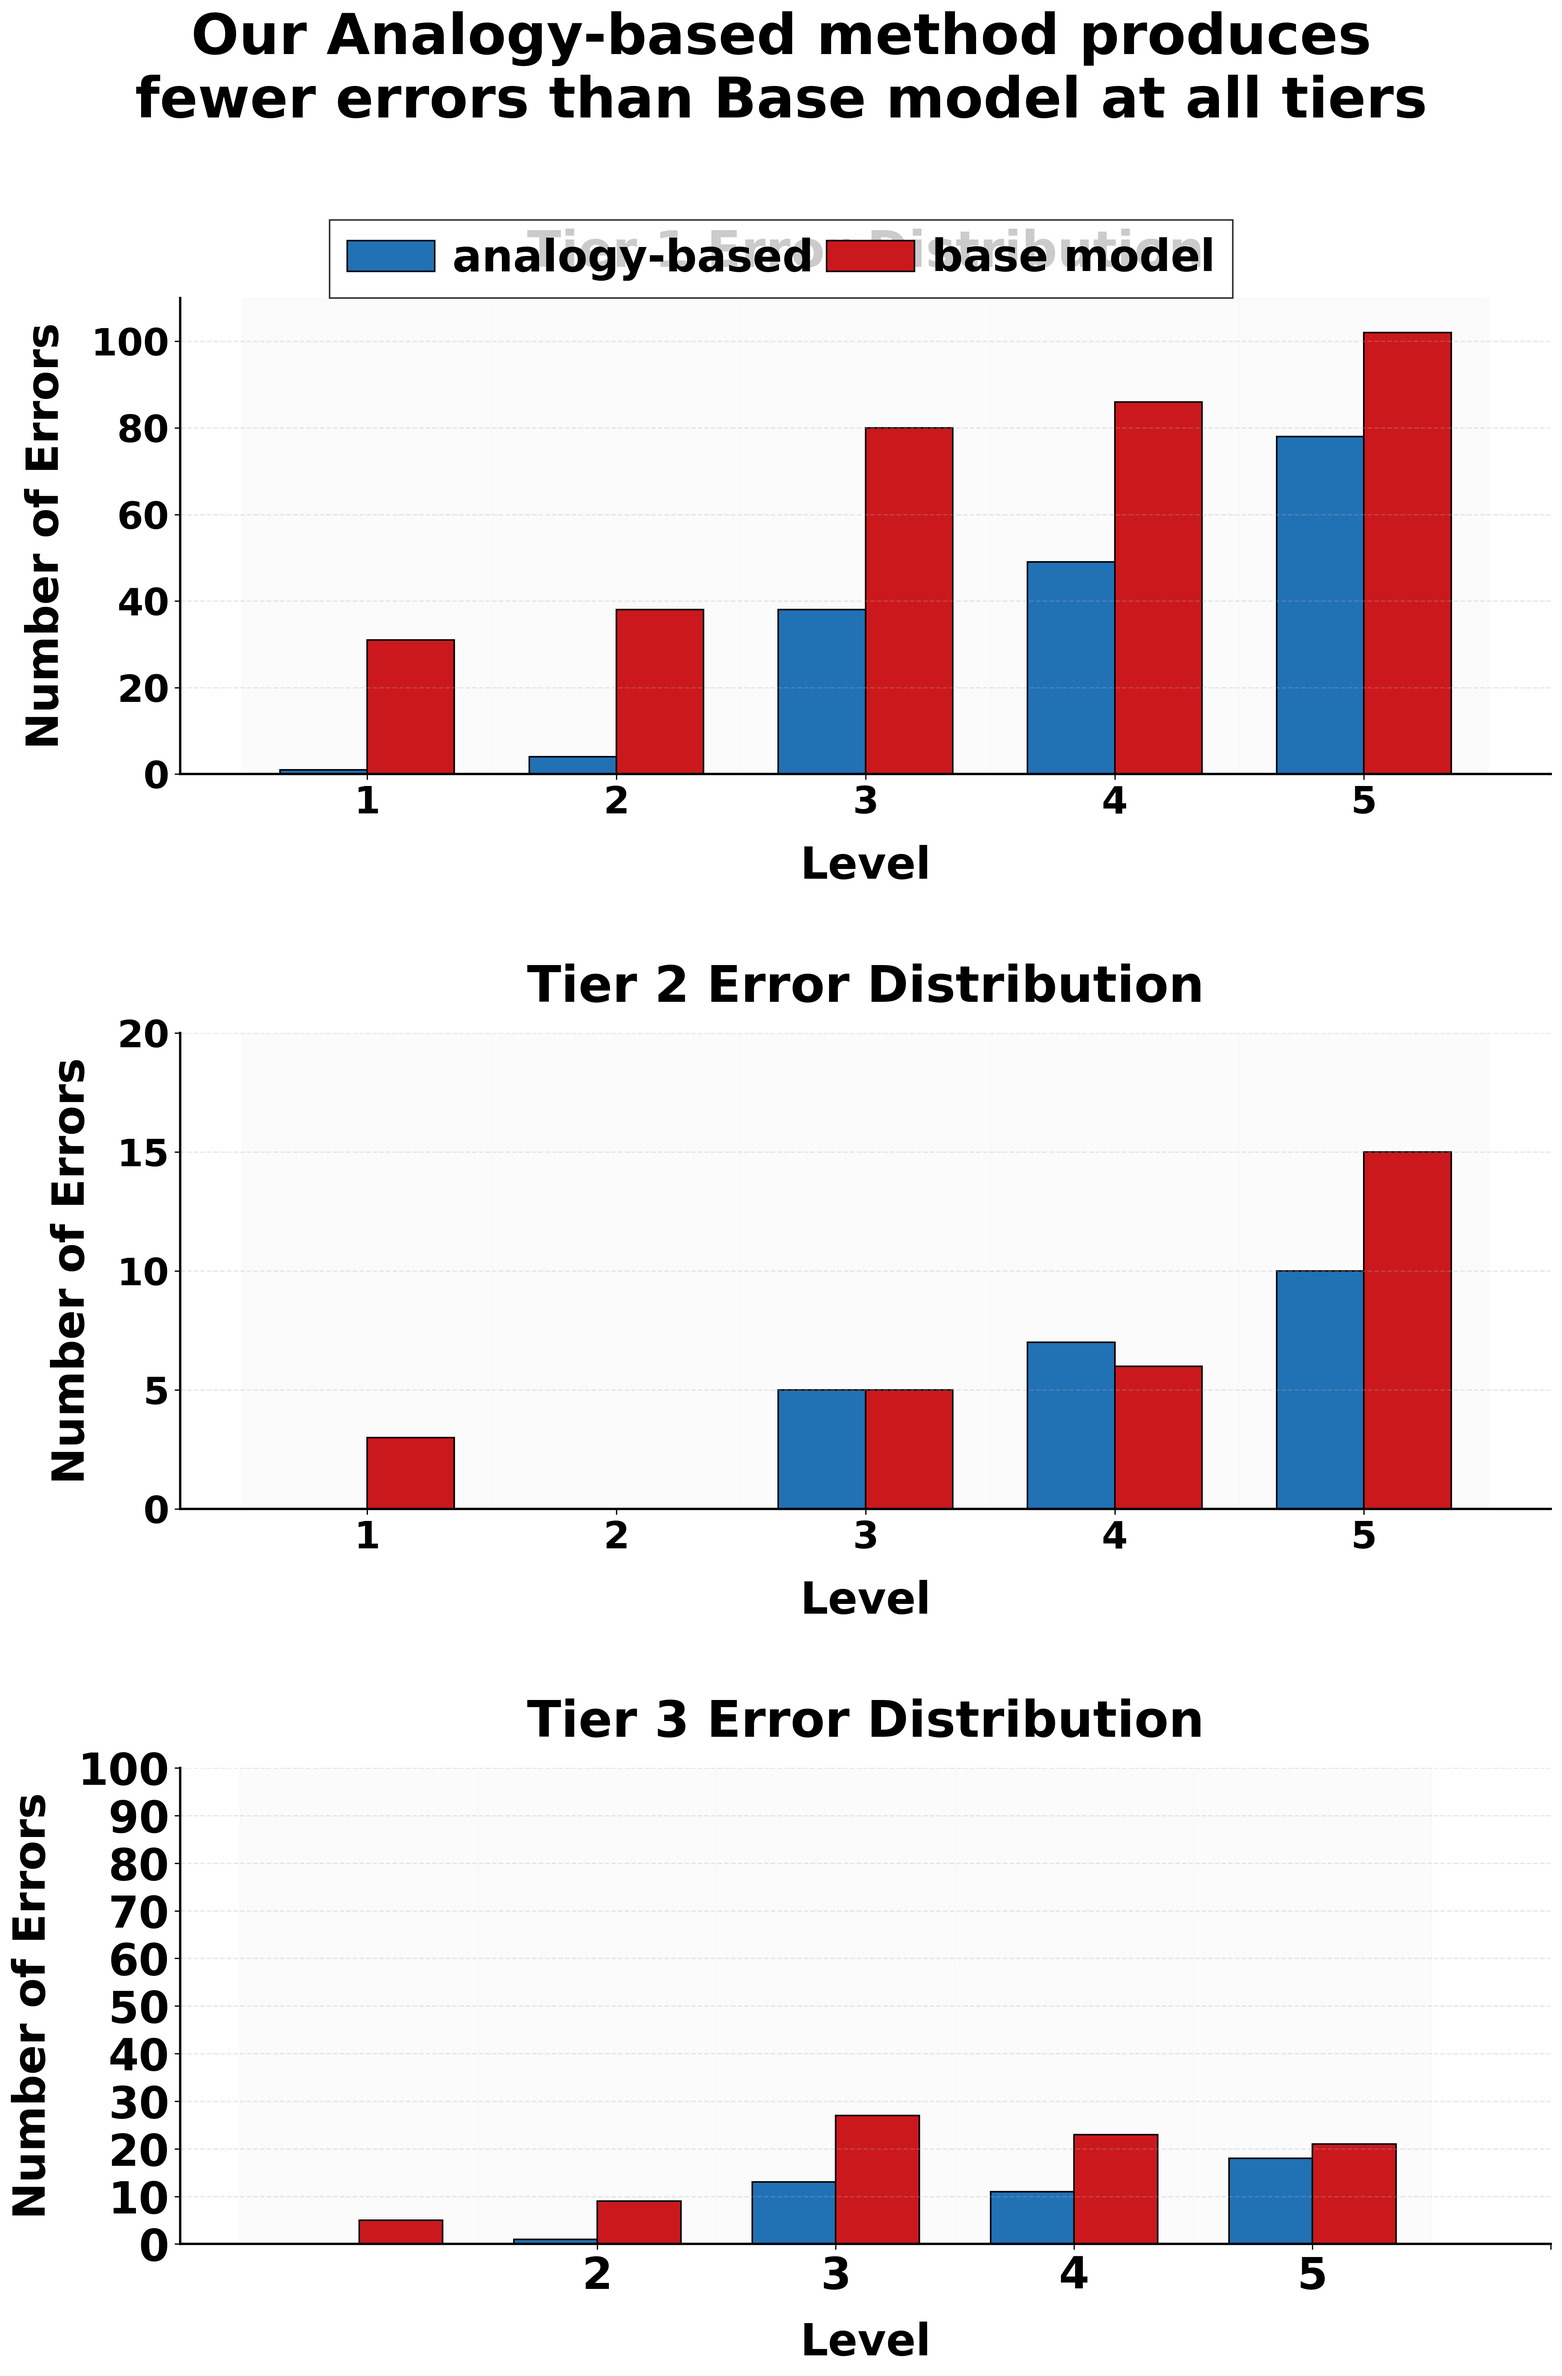
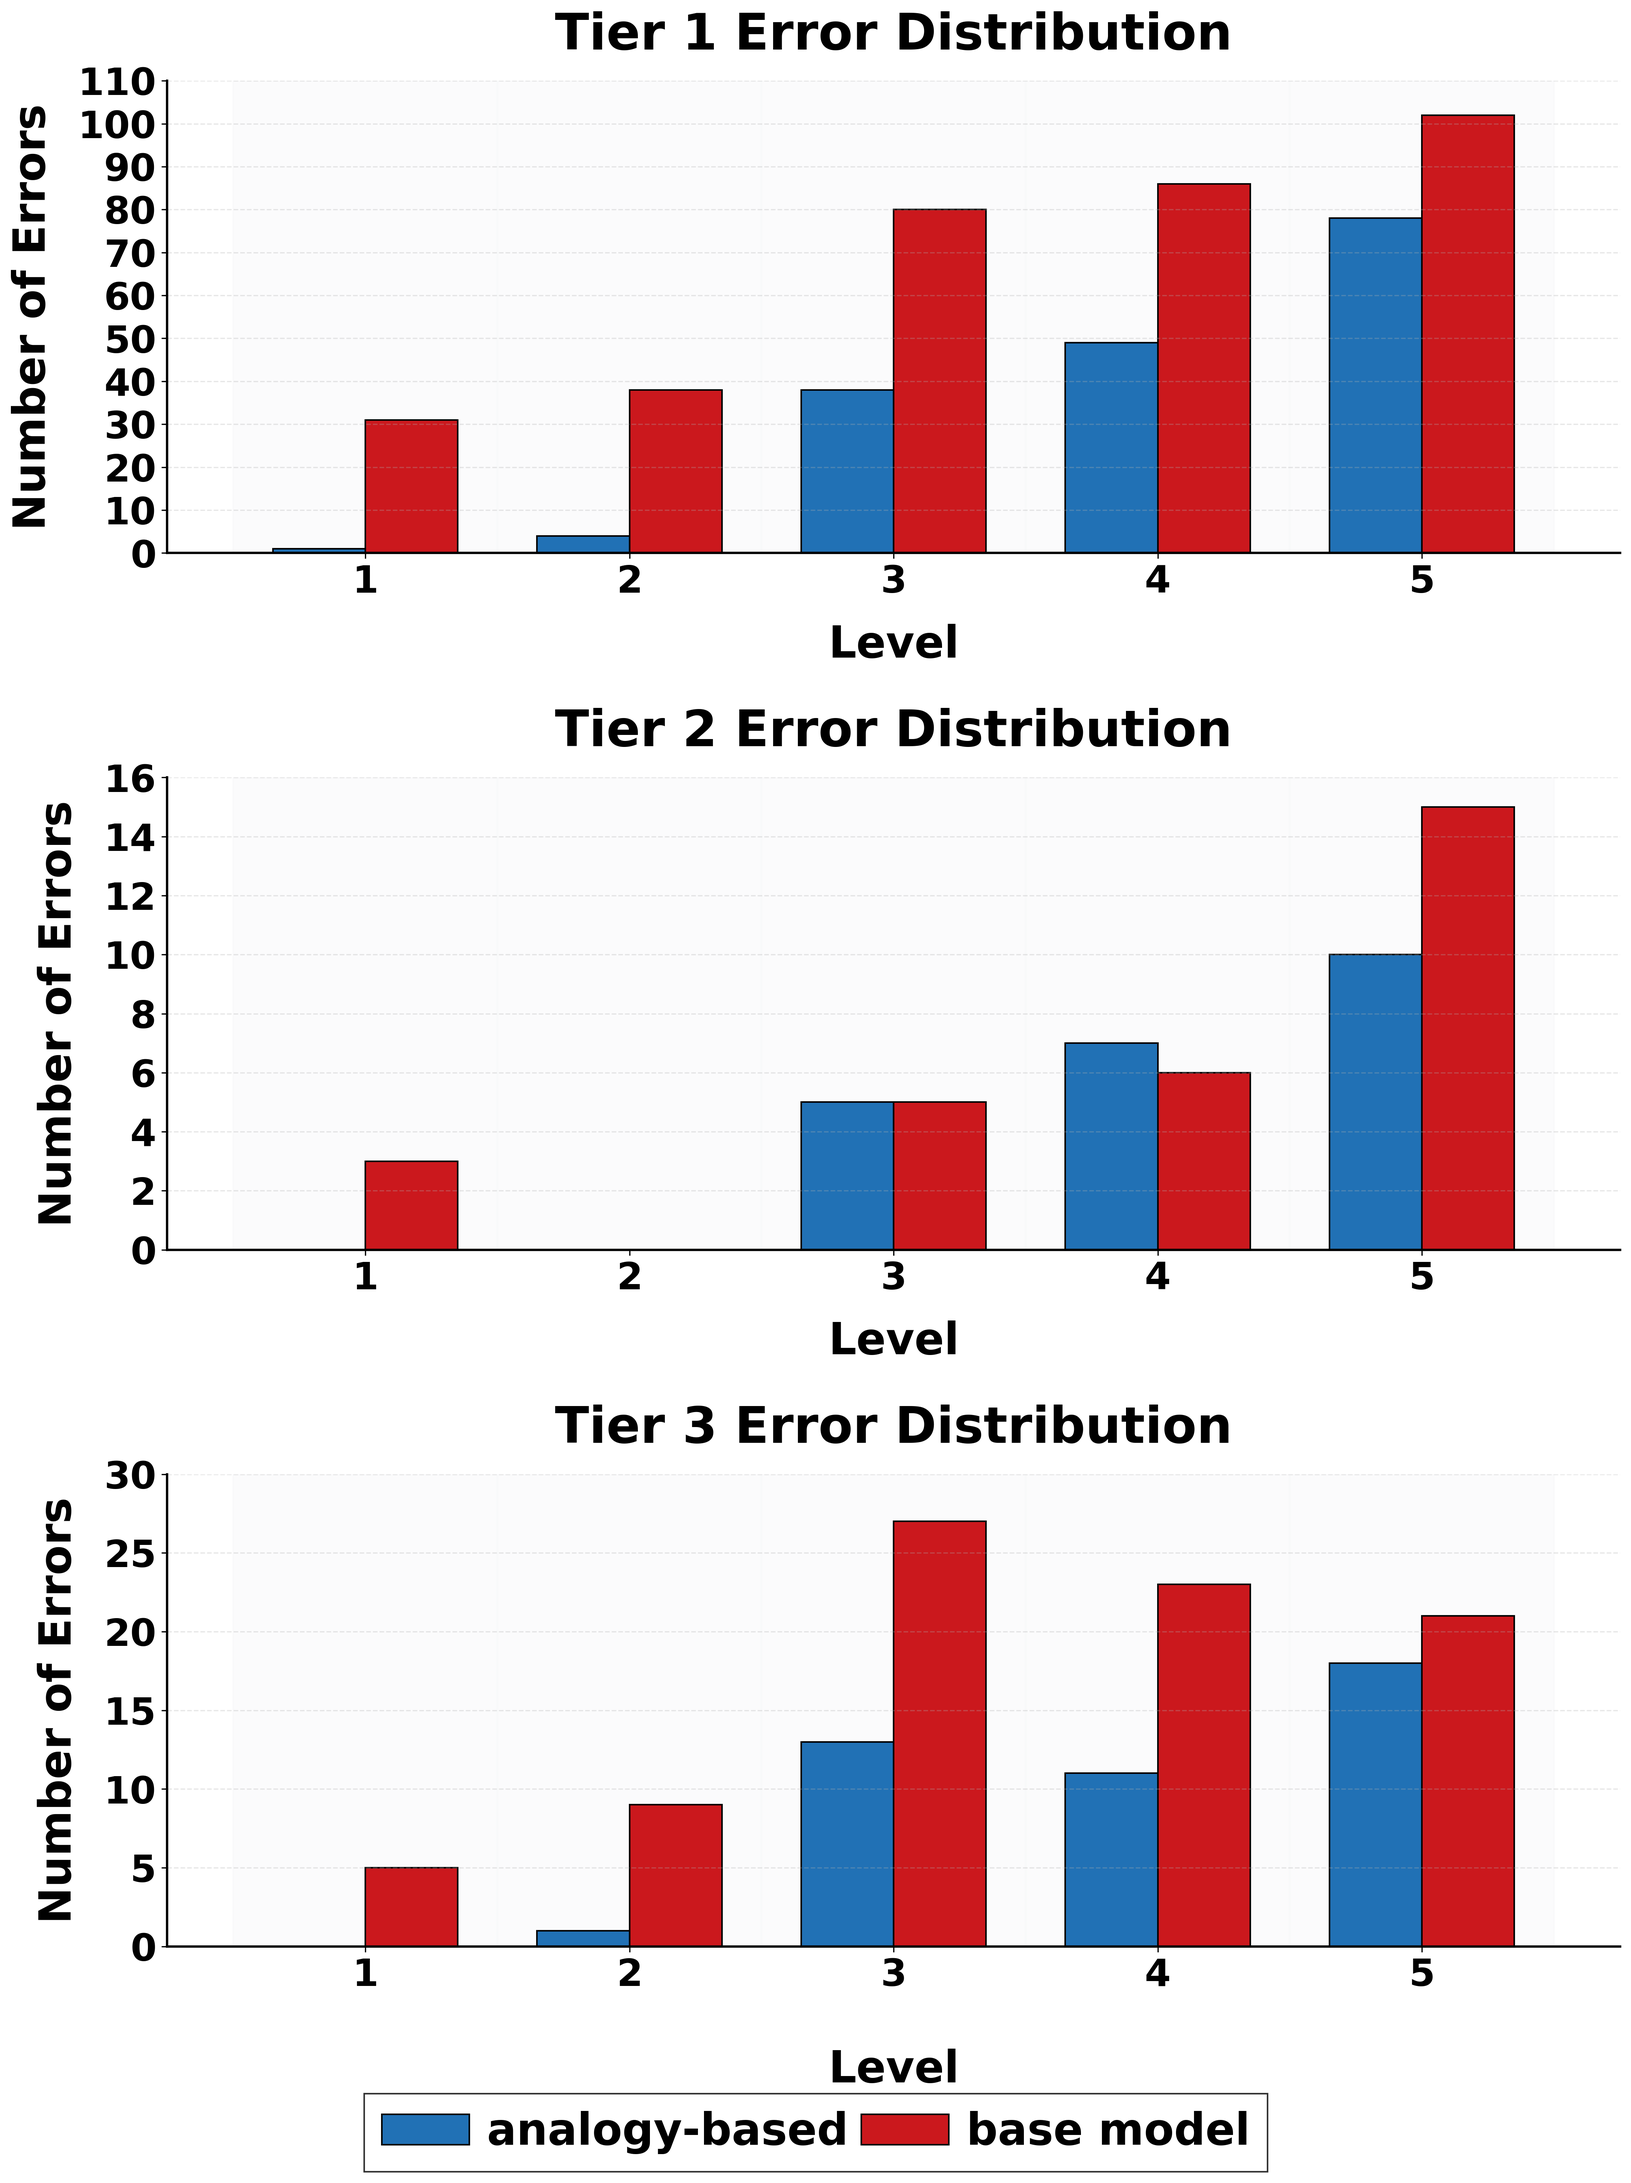
tier error dist plot

diff --git a/src/formalgeo/experiments/exp_new.py b/src/formalgeo/experiments/exp_new.py
@@ -403,6 +403,7 @@ def plot_success_rates(base_path):
     plt.close()
 
 
+
 def plot_ablation_study(base_path):
     """
     Plot cumulative success rates for different stages of the ablation study.
@@ -552,7 +553,6 @@ def plot_ablation_study(base_path):
     plt.close()
 
     return problem_status
-
 
 def calculate_ablation_success_rates(level_dir, level, problem_status):
     """
@@ -1446,7 +1446,7 @@ def plot_tier_error_distribution(error_analysis, base_path):
     variants = ["variant_analogy_based_model_o1", "variant_random_all_theorems_model_o1"]
 
     # Create figure with white background and more height
-    fig, (ax1, ax2, ax3) = plt.subplots(3, 1, figsize=(15, 22), facecolor='white')
+    fig, (ax1, ax2, ax3) = plt.subplots(3, 1, figsize=(15, 20), facecolor='white')  # Reduced height from 22 to 20
     axes = [ax1, ax2, ax3]
 
     # Width of each bar
@@ -1478,30 +1478,44 @@ def plot_tier_error_distribution(error_analysis, base_path):
                edgecolor='black', linewidth=1)
 
         # Customize subplot
-        ax.set_xlabel('Level', fontsize=28, fontweight='bold', labelpad=15)  # Reduced from 32
-        ax.set_ylabel('Number of Errors', fontsize=28, fontweight='bold', labelpad=15)  # Reduced from 32
+        if tier == 3:  # For the third subplot, adjust labelpad to bring "Level" closer to axis
+            ax.set_xlabel('Level', fontsize=28, fontweight='bold', labelpad=35)
+        else:
+            ax.set_xlabel('Level', fontsize=28, fontweight='bold', labelpad=15)
+        ax.set_ylabel('Number of Errors', fontsize=28, fontweight='bold', labelpad=15)
         ax.set_title(f'Tier {tier} Error Distribution',
-                     fontsize=32, fontweight='bold', pad=20)  # Reduced from 36
+                     fontsize=32, fontweight='bold', pad=20)
 
         # Set x-axis ticks
         ax.set_xticks(indices)
-        ax.set_xticklabels(levels, fontsize=24, fontweight='bold')  # Reduced from 28
+        ax.set_xticklabels(levels, fontsize=24, fontweight='bold')
 
-        # Set dynamic y-axis limits and ticks based on data
+        # Set dynamic y-axis limits and ticks based on actual data
         max_value = max(max(analogy_data), max(random_data))
-        y_max = math.ceil(max_value / 10.0) * 10  # Round up to nearest 10
-        ax.set_ylim(0, y_max)
-
-        # Calculate appropriate tick interval
-        if y_max <= 20:
+        
+        # Round up max_value to an appropriate scale
+        if max_value <= 5:
+            y_max = math.ceil(max_value)
+            tick_interval = 0.5
+        elif max_value <= 10:
+            y_max = math.ceil(max_value)
+            tick_interval = 1
+        elif max_value <= 20:
+            y_max = math.ceil(max_value / 2.0) * 2
+            tick_interval = 2
+        elif max_value <= 50:
+            y_max = math.ceil(max_value / 5.0) * 5
             tick_interval = 5
-        elif y_max <= 50:
-            tick_interval = 10
         else:
-            tick_interval = 20
+            y_max = math.ceil(max_value / 10.0) * 10
+            tick_interval = 10
 
-        ax.set_yticks(np.arange(0, y_max + 1, tick_interval))
-        ax.tick_params(axis='y', labelsize=24)  # Reduced from 28
+        ax.set_ylim(0, y_max)
+        
+        # Create tick marks based on the data range
+        ticks = np.arange(0, y_max + tick_interval, tick_interval)
+        ax.set_yticks(ticks)
+        ax.tick_params(axis='y', labelsize=24)
 
         # Make y-axis labels bold
         for label in ax.get_yticklabels():
@@ -1518,43 +1532,31 @@ def plot_tier_error_distribution(error_analysis, base_path):
         ax.spines['left'].set_linewidth(1.5)
         ax.spines['bottom'].set_linewidth(1.5)
 
-    # Add overall title with more space at the top
-    fig.suptitle('Our Analogy-based method produces\nfewer errors than Base model at all tiers',
-                 fontsize=36, fontweight='bold', y=0.98)  # Reduced from 40 to 36
+    # Adjust subplot spacing
+    plt.subplots_adjust(hspace=0.4)  # Reduced from default
 
     # Create a common legend for all subplots
-    handles, labels = axes[0].get_legend_handles_labels()
+    handles, labels = ax1.get_legend_handles_labels()
     legend = fig.legend(handles, labels,
-                        fontsize=28,
-                        loc='center',
-                        bbox_to_anchor=(0.5, 0.88),
-                        frameon=True,
-                        edgecolor='black',
-                        fancybox=False,
-                        borderpad=0.4,  # Reduced from 1.0 to make frame tighter
-                        handlelength=2.0,  # Reduced from 3.0 to make lines shorter
-                        handletextpad=0.4,  # Reduced from 1.0 to reduce space between lines and text
-                        labelspacing=0.2,  # Reduced from 0.5 to reduce vertical space between entries
-                        columnspacing=0.3,  # Added to reduce space between columns
-                        ncol=2)
+                      fontsize=28,
+                      loc='center',
+                      bbox_to_anchor=(0.5, 0.02),  # Position legend just above the x-axis label of the third subplot
+                      frameon=True,
+                      edgecolor='black',
+                      fancybox=False,
+                      borderpad=0.4,
+                      handlelength=2.0,
+                      handletextpad=0.4,
+                      labelspacing=0.2,
+                      columnspacing=0.3,
+                      ncol=2)
 
     # Make legend text bold
     for text in legend.get_texts():
         text.set_fontweight('bold')
 
-    # Make axis numbers bold
-    plt.xticks(levels, fontsize=28, fontweight='bold')  # Added fontweight='bold'
-    plt.yticks(np.arange(0, 110, 10), fontsize=28, fontweight='bold')  # Added fontweight='bold'
-
     # Adjust layout with space for legend at bottom
-    plt.tight_layout(rect=[0, 0.1, 1, 0.95])  # Adjusted to make room for legend at bottom
-
-    # Make left and bottom spines thicker
-    plt.gca().spines['left'].set_linewidth(1.5)
-    plt.gca().spines['bottom'].set_linewidth(1.5)
-
-    # Adjust layout with more padding
-    plt.tight_layout(pad=2.0)
+    plt.tight_layout(rect=[0, 0.02, 1, 0.98])  # Adjusted to accommodate legend position
 
     # Save the plot
     plt.savefig(os.path.join(base_path, 'tier_error_distribution.png'),
@@ -1777,10 +1779,10 @@ def plot_retries_and_runs(base_path):
 
 if __name__ == "__main__":
     base_path = "/Users/osultan/PycharmProjects/FormalGeo/results"
-    plot_success_rates(base_path)
+    # plot_success_rates(base_path)
     problem_status = plot_ablation_study(base_path)
-    calculate_analogy_stability(base_path)
-    analyze_answer_correctness(base_path, problem_status)
-    error_analysis = analyze_errors(base_path)
-    plot_retries_and_runs(base_path)
-    print(1)
+    # calculate_analogy_stability(base_path)
+    # analyze_answer_correctness(base_path, problem_status)
+    # error_analysis = analyze_errors(base_path)
+    # plot_retries_and_runs(base_path)
+    # print(1)
